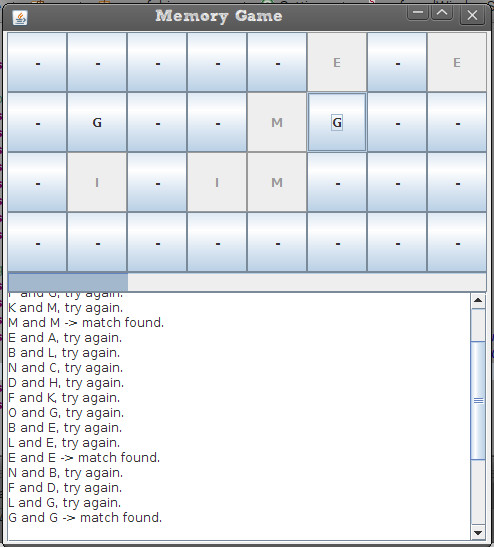
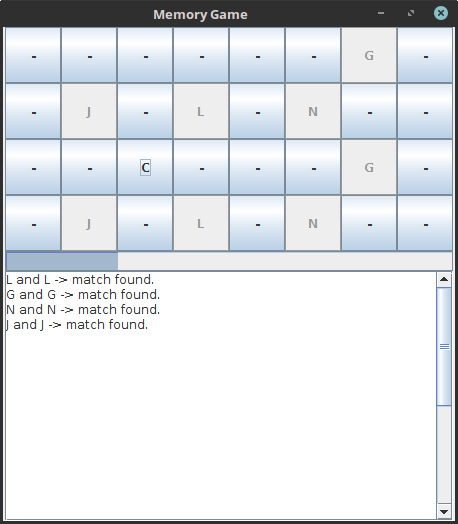
compile script

diff --git a/[Java] MemoryGame/src/com/fabio/memory/Settings.java b/[Java] MemoryGame/src/com/fabio/memory/Settings.java
@@ -13,12 +13,12 @@ public class Settings {
 	public static boolean showCompleteBoardOnStartup = true;
 
 	// GUI game settings
-	public static Integer preferredButtonSizeInGUI = 60;
+	public static Integer preferredButtonSizeInGUI = 56;
 	public static Integer preferredProgressBarSizeInGUI = 20;
 	public static Integer preferredTextAreaSizeInGUI = 250;
 	public static Integer preferredWindowSizeInGUI = preferredButtonSizeInGUI
 			* 4 + preferredProgressBarSizeInGUI + preferredTextAreaSizeInGUI
-			+ 26;
+			+ 30;
 	public static boolean useNimbusLookAndFeel = false;
 	public static boolean shuffleDispositionForTheGame = false;
 }
